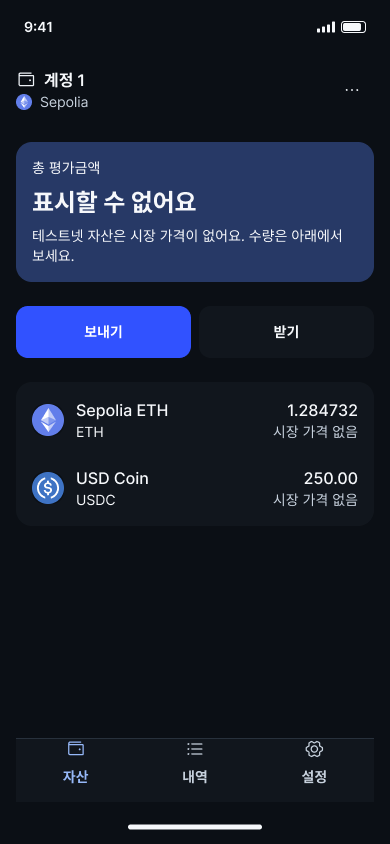
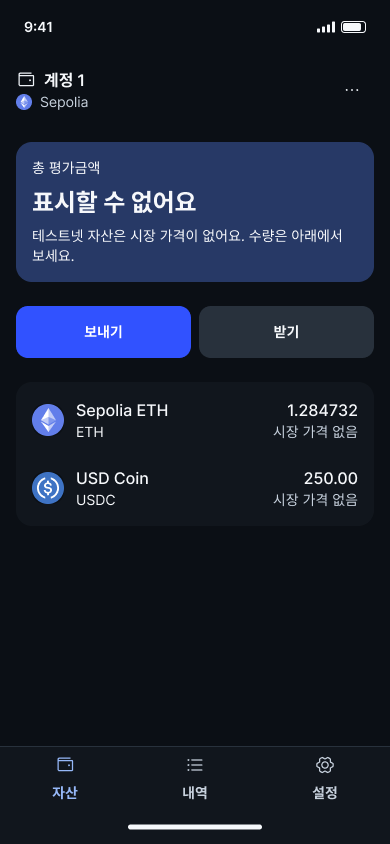
fix(mobile): finish-review fixes — dark secondary, tab bar, settings switches, large text (#9)

diff --git a/apps/mobile/src/pages/settings/index.tsx b/apps/mobile/src/pages/settings/index.tsx
@@ -1,19 +1,26 @@
 import Constants from 'expo-constants'
+import { useState } from 'react'
 import { useTranslation } from 'react-i18next'
 import { account } from '@/entities/account/fixtures'
-import { Group, ListItem, Screen, Text } from '@/shared/ui'
+import { Group, ListItem, Screen, Switch, Text } from '@/shared/ui'
 
-/** R-S60 설정. Rows are static in C2a (disclosure rows open nothing yet). */
+/** R-S60 설정. Preferences are local state only (no persistence in C2a); the recovery phrase row opens nothing yet. */
 export function SettingsPage() {
   const { t } = useTranslation()
+  const [push, setPush] = useState(true)
+  const [zero, setZero] = useState(false)
+  const [device, setDevice] = useState(true)
+  const toggle = (title: string, value: boolean, set: (v: boolean) => void) => (
+    <ListItem title={title} trailing={{ kind: 'custom', node: <Switch label={title} value={value} onValueChange={set} /> }} />
+  )
   return (
     <Screen edges={['top']}>
       <Text variant="title" accessibilityRole="header">{t('settings.title')}</Text>
       <Group inset={false}>
-        <ListItem title={t('settings.phrase')} trailing={{ kind: 'disclosure', text: t('settings.on') }} />
-        <ListItem title={t('settings.push')} trailing={{ kind: 'disclosure', text: t('settings.on') }} />
-        <ListItem title={t('settings.zero')} trailing={{ kind: 'disclosure', text: t('settings.hidden') }} />
-        <ListItem title={t('settings.device')} trailing={{ kind: 'disclosure', text: t('settings.on') }} />
+        <ListItem title={t('settings.phrase')} trailing={{ kind: 'disclosure' }} />
+        {toggle(t('settings.push'), push, setPush)}
+        {toggle(t('settings.zero'), zero, setZero)}
+        {toggle(t('settings.device'), device, setDevice)}
         <ListItem title={t('settings.network')} trailing={{ kind: 'value', text: account.network }} />
         <ListItem title={t('settings.version')} trailing={{ kind: 'value', text: Constants.expoConfig?.version ?? '' }} />
       </Group>

diff --git a/apps/mobile/src/shared/ui/ProductNavigation.tsx b/apps/mobile/src/shared/ui/ProductNavigation.tsx
@@ -7,20 +7,20 @@ import { Text } from './Text'
 
 export type NavItem = { key: string; label: string; icon: IconName; active: boolean; onPress: () => void }
 
-/** C21 Product navigation (tab bar). White bar inset by screen padding, 1 px top border, icon over Label text; active = brand color. */
+/** C21 Product navigation (tab bar). Full screen width, bar fill extends into the bottom safe area, 1 px top border, space-2 top padding, icon over Label text; active = brand color. */
 export function ProductNavigation({ items }: { items: NavItem[] }) {
   const t = useTheme()
   const nav = t.component.productNavigation
   const insets = useSafeAreaInsets()
   return (
-    <View style={{ backgroundColor: t.semantic.surface.canvas, paddingHorizontal: t.semantic.layout.screen.padding, paddingBottom: Math.max(insets.bottom, t.primitive.space[2]) }}>
+    <View style={{ backgroundColor: nav.bg, paddingBottom: Math.max(insets.bottom, t.primitive.space[2]) }}>
       <View
         accessibilityRole="tablist"
         style={{
-          height: nav.height,
+          minHeight: nav.height,
           flexDirection: 'row',
           gap: t.semantic.layout.fieldGap,
-          backgroundColor: nav.bg,
+          paddingTop: t.primitive.space[2],
           borderTopWidth: nav.borderWidth,
           borderTopColor: nav.border,
         }}
@@ -37,7 +37,7 @@ export function ProductNavigation({ items }: { items: NavItem[] }) {
               style={{ flex: 1, minHeight: t.primitive.size.touch_min, alignItems: 'center', gap: t.semantic.layout.fieldGap, borderWidth: nav.itemBorderWidth }}
             >
               <Icon name={i.icon} size={t.component.icon.size.control} color={color} />
-              <Text variant="label" color={color} style={{ textAlign: 'center' }}>{i.label}</Text>
+              <Text variant="label" color={color} maxFontSizeMultiplier={1.3} style={{ textAlign: 'center' }}>{i.label}</Text>
             </Pressable>
           )
         })}

diff --git a/apps/mobile/src/shared/ui/Keypad.tsx b/apps/mobile/src/shared/ui/Keypad.tsx
@@ -27,15 +27,15 @@ function Key({ k, labels, onKey }: { k: KeypadKey; labels: Labels; onKey: (k: Ke
         accessibilityLabel={label}
         onPress={() => onKey(k)}
         {...handlers}
-        style={{ height: t.primitive.size.control_lg, alignItems: 'center', justifyContent: 'center' }}
+        style={{ minHeight: t.primitive.size.control_lg, alignItems: 'center', justifyContent: 'center' }}
       >
-        {k === 'backspace' ? <Icon name="backspace" size={t.component.icon.size.control} color={t.semantic.text.primary} /> : <Text variant="title">{k}</Text>}
+        {k === 'backspace' ? <Icon name="backspace" size={t.component.icon.size.control} color={t.semantic.text.primary} /> : <Text variant="title" maxFontSizeMultiplier={1.3}>{k}</Text>}
       </Pressable>
     </Animated.View>
   )
 }
 
-/** C34 Keypad. 3x4 text-only keys (1-9, ., 0, backspace), 52 pt rows. Every key is a button with a label; backspace is icon-only ("지우기"). Press feedback only: scale 0.97, 160 ms. */
+/** C34 Keypad. 3x4 text-only keys (1-9, ., 0, backspace), 52 pt min-height rows that grow with large text (digits capped at 1.3x). Every key is a button with a label; backspace is icon-only ("지우기"). Press feedback only: scale 0.97, 160 ms. */
 export function Keypad({ onKey, labels }: { onKey: (k: KeypadKey) => void; labels: Labels }) {
   const t = useTheme()
   return (

diff --git a/apps/mobile/src/shared/ui/Screen.tsx b/apps/mobile/src/shared/ui/Screen.tsx
@@ -12,10 +12,12 @@ type Props = {
   edges?: ('top' | 'bottom')[]
   /** `section` = layout.sectionGap.product (24, default). `group` = layout.groupGap (16), used by frame S10N. `row` = layout.rowGap (12), used by S40. */
   gap?: 'section' | 'group' | 'row'
+  /** Space between the header and the first block. `field` = 8 (default), `group` = 16 (frame S20B). */
+  topGap?: 'field' | 'group'
 }
 
 /** Safe-area screen with canvas background, scroll body and optional pinned footer. */
-export function Screen({ children, header, footer, edges = ['top', 'bottom'], gap = 'section' }: Props) {
+export function Screen({ children, header, footer, edges = ['top', 'bottom'], gap = 'section', topGap = 'field' }: Props) {
   const t = useTheme()
   const l = t.semantic.layout
   return (
@@ -24,7 +26,7 @@ export function Screen({ children, header, footer, edges = ['top', 'bottom'], ga
       <ScrollView
         contentContainerStyle={{
           paddingHorizontal: l.screen.padding,
-          paddingTop: t.primitive.space[2],
+          paddingTop: topGap === 'group' ? l.groupGap : t.primitive.space[2],
           paddingBottom: t.primitive.space[2],
           gap: gap === 'group' ? l.groupGap : gap === 'row' ? l.rowGap : l.sectionGap.product,
           flexGrow: 1,

diff --git a/apps/mobile/src/shared/ui/Switch.tsx b/apps/mobile/src/shared/ui/Switch.tsx
@@ -11,6 +11,7 @@ export function Switch({ value, onValueChange, label, disabled }: Props) {
   const h = t.primitive.size.avatar_sm
   const pad = t.primitive.space['0_5']
   const thumb = h - pad * 2
+  const slop = { top: (t.primitive.size.touch_min - h) / 2, bottom: (t.primitive.size.touch_min - h) / 2, left: 0, right: 0 }
   return (
     <Pressable
       accessibilityRole="switch"
@@ -18,7 +19,8 @@ export function Switch({ value, onValueChange, label, disabled }: Props) {
       accessibilityState={{ checked: value, disabled: !!disabled }}
       disabled={disabled}
       onPress={() => onValueChange(!value)}
-      style={{ minHeight: t.primitive.size.touch_min, minWidth: t.primitive.size.touch_min, justifyContent: 'center', opacity: disabled ? t.primitive.opacity[40] : t.primitive.opacity[100] }}
+      hitSlop={slop}
+      style={{ justifyContent: 'center', opacity: disabled ? t.primitive.opacity[40] : t.primitive.opacity[100] }}
     >
       <View
         style={{

diff --git a/apps/mobile/src/shared/ui/BottomSheet.tsx b/apps/mobile/src/shared/ui/BottomSheet.tsx
@@ -42,7 +42,7 @@ export function BottomSheet({ visible, onClose, title, children, actions }: Prop
     <Modal visible={mounted} transparent animationType="none" onRequestClose={onClose} statusBarTranslucent>
       <View style={{ flex: 1, justifyContent: 'flex-end' }}>
         <Animated.View style={[{ position: 'absolute', top: 0, left: 0, right: 0, bottom: 0 }, scrim]}>
-          <Pressable accessibilityLabel={ko.common.close} onPress={onClose} style={{ flex: 1, backgroundColor: t.semantic.surface.inverse, opacity: t.semantic.effect.modalScrimOpacity }} />
+          <Pressable accessibilityRole="button" accessibilityLabel={ko.common.close} onPress={onClose} style={{ flex: 1, backgroundColor: t.semantic.surface.inverse, opacity: t.semantic.effect.modalScrimOpacity }} />
         </Animated.View>
         <Animated.View
           accessibilityViewIsModal

diff --git a/apps/mobile/src/shared/ui/SummaryRow.tsx b/apps/mobile/src/shared/ui/SummaryRow.tsx
@@ -28,7 +28,7 @@ export function SummaryRow({ label, value, format = 'text', highlight, mono, edi
       accessibilityLabel={onEdit ? undefined : `${label}, ${value}`}
       style={{ flexDirection: 'row', alignItems: 'flex-start', gap: t.semantic.layout.rowGap, minHeight: t.primitive.size.touch_min, paddingVertical: t.primitive.space[3] }}
     >
-      <Text variant={total ? 'label' : 'body'} color={total ? t.semantic.text.primary : t.semantic.text.secondary} style={{ width: labelWidth }}>{label}</Text>
+      <Text variant={total ? 'label' : 'body'} color={total ? t.semantic.text.primary : t.semantic.text.secondary} style={{ minWidth: labelWidth }}>{label}</Text>
       <View style={{ flex: 1 }}>
         {format === 'address' ? (
           <AddressText address={value} highlight={highlight ?? []} markColor={t.semantic.status.warning.fg} />

diff --git a/apps/mobile/src/shared/ui/Text.tsx b/apps/mobile/src/shared/ui/Text.tsx
@@ -11,5 +11,5 @@ type Props = TextProps & { variant?: TextVariant; color?: string }
 
 export function Text({ variant = 'body', color, style, ...rest }: Props) {
   const t = useTheme()
-  return <RNText {...rest} style={[textStyle(variant === 'display' ? t.primitive.type.display.mobile : t.semantic.typography[variant]), { color: color ?? t.semantic.text.primary }, style]} />
+  return <RNText maxFontSizeMultiplier={variant === 'amountHero' ? 1.2 : 1.5} {...rest} style={[textStyle(variant === 'display' ? t.primitive.type.display.mobile : t.semantic.typography[variant]), { color: color ?? t.semantic.text.primary }, style]} />
 }

diff --git a/apps/mobile/src/pages/send/amount.tsx b/apps/mobile/src/pages/send/amount.tsx
@@ -23,6 +23,7 @@ export function SendAmountPage() {
   const gap = th.semantic.layout.fieldGap
   return (
     <Screen
+      topGap="group"
       header={<ScreenHeader backLabel={t('common.back')} onBack={() => router.back()} />}
       footer={<Button label={t('send.next')} disabled={isZeroAmount(amount)} onPress={() => router.push('/review')} />}
     >

diff --git a/work/redesign/finish-review.md b/work/redesign/finish-review.md
@@ -1,0 +1,34 @@
+disposition: fix
+
+Unread/unchecked: Figma node data, AGENTS.md beyond the injected contract, mobbin refs, direction contract and decision sketch (reviewed screenshots + code only). No large-text, Android dark, or Android sheet captures exist. Native build: no detector ran; floor check is the only slop gate.
+
+## persistence
+Pass for a code-led build (no comp round, no state.json required). All 27 required captures present (12 app + 12 figma + 3 android), valid, correct content, correct dimensions. Expo Go gear overlay ignored per brief, but it hides the top-right of every pushed/home frame (Figma home shows a "..." affordance there; app side unverifiable).
+
+## fidelity
+Critique reference is provocation-only, but app vs Figma frame comparison: faithful on start, home, home-new, send, send-amount, review, review-lookalike, review-sheet, receive, activity, settings, home-dark layout/spacing/type.
+- TYPE: Inter/Plex Mono as contracted; titles 24/32, amount hero 40/48; match.
+- MATERIAL: flat, borderless, one tinted C23 card; match. Input border on send is functional (contract rule 10).
+- GROUND: canvas #F6F8FB-like, matches Figma.
+- Adaptation: receive address wraps 2 lines (README-cited, acceptable). Version 0.0.0 vs 1.0.0 (config, acceptable).
+- Rules 3/4: full address, fee, network, account, "not a safety guarantee", lookalike chunks (color + underline + weight), sheet with Cancel as primary and "그래도 보내기" demoted, placeholder QR labelled. Good.
+
+## ceiling
+Reached for the chosen restrained direction. Unused: no haptics on keypad/confirm, no amount-digit transition; acceptable under "one authored moment" (press scale 0.97 + fold-in + sheet).
+
+## material_fixes
+1. Dark mode: secondary action fill (받기) is near-invisible against canvas (about 1.1:1); the control reads as a missing button. Raise the dark neutral secondary fill (home-dark).
+2. Dark mode captured on home only; send, send-amount, review, sheet, receive, activity, settings dark are unverified. Recapture them.
+3. Bottom tab bar (home, activity, settings): icons sit directly under the hairline with no top padding, and the bar is a square-cornered white slab inset 16 pt with canvas gutters. It reads as unfinished against an iOS tab bar. Add vertical padding (icon to hairline), or run edge to edge.
+4. Settings: rows showing 켜짐/숨김 with a chevron look like toggles but navigate. The Switch primitive exists in src/shared/ui/Switch.tsx. If these are binary preferences, use Switch; otherwise drop the on/off text. Fix the iOS convention mismatch.
+5. Dynamic Type / Android font scale never captured; fixed 52 pt keypad rows and fixed nav.height tab bar risk clipping at large sizes (Text.tsx sets no maxFontSizeMultiplier). Capture at AX sizes and font_scale 1.3.
+6. Home top-right: Figma "..." affordance absent or hidden under the Expo overlay; recapture with the overlay dismissed to confirm.
+7. BottomSheet scrim Pressable has a label but no accessibilityRole="button" (BottomSheet.tsx line 45).
+8. Review "확인 결과" notice tint is almost the canvas colour (low separation); verify the contrast of the blue text on that tint. Minor: back arrow glyph sits about 5 pt right of the title left edge; send-amount summary row to back button gap (8 pt) breaks the 16/24 rhythm.
+
+Verified in code: Reduce Motion handled in usePressScale, useFoldIn (starts at 1), BottomSheet (instant open/close). Labels present on IconButton, Button, Keypad (dot/delete named), tabs (role tab + selected state), SummaryRow edit, sheet (accessibilityViewIsModal, onRequestClose for Android Back). 44 pt targets enforced via hitSlop.
+
+## keep
+Back as bare 44 pt arrow, one question per screen, 24/32 titles, 40/48 amount hero, borderless flat rows, full address with chunk-marking, sheet with Cancel as the primary action.
+
+fix

diff --git a/outputs/vaultme-v2-migration.md b/outputs/vaultme-v2-migration.md
@@ -273,3 +273,12 @@ Figma `02 Semantic`(`VariableCollectionId:2:151`)의 `Dark` mode(`298:0`)를 읽
 - 소유자 승인: `component.button.size.lg.paddingX` `space.5`(20) → `space.4`(16), `component.receivePanel.radius` `radius.xl`(20) → `radius.lg`(16). Figma VariableID:2:253, VariableID:30:48 alias 변경, 경로·ID 유지. Library 게시 완료는 이 단계 이후 기록.
 
 - Figma에만 있던 C29–C33 Component Variable 24개를 portable JSON `component`에 추가했다 (`switch` 4, `segmented` 6, `listItem` 7, `bottomSheet` 1, `sensitiveReveal` 6). 모두 기존 Semantic/Primitive alias이며 raw 값은 없다. Primitive와 Semantic은 추가 없음 (`space/*`는 이미 JSON에 있음). 기존 값은 바꾸지 않았다. Figma 읽기 전용 비교: Figma 717 Variable, JSON-only는 Text Style/Effect Style 참조(typography, shadow) 80개뿐이다. `segmented.bg`(`action.secondary.bg.default`)는 앱의 기존 `surface.subtle`과 값이 달라 앱 코드는 바꾸지 않았다.
+
+## 2026-10-14 Dark Secondary fill과 Tab bar (finish-review 수정)
+
+- `semanticDark.action.secondary.bg.{default,hover,pressed}`: `neutral.900/800/700` → `neutral.800/700/600`. 이유: Dark canvas(`neutral.950`)와 default 면이 1.06:1이라 버튼이 보이지 않았다. 새 값은 canvas 대비 1.46 / 1.97 / 2.82:1이다. `action.secondary.fg`(`neutral.50`)와의 대비는 12.38 / 9.18 / 6.39:1로 모두 4.5:1 이상이다. Figma `02 Semantic` Dark mode(`298:0`)의 VariableID:2:186–188을 같은 alias로 바꿨다. 경로·ID 유지. `segmented.bg`와 Secondary Button이 이 변수를 alias하므로 Dark에서 함께 바뀐다.
+- Product navigation(`67:342`): 모든 variant에 `paddingTop` = `space/2`(8, 변수 binding)를 추가했다. 높이(`productNavigation/height` 64), 색, divider 토큰, 44 pt 대상은 그대로다. master ID는 유지했다. 앱 frame 5개는 Tab bar를 Body 밖으로 옮겨 화면 전체 너비(390)로 쓰고, Home indicator 영역 fill을 `productNavigation/bg`에 binding해 bar 색이 하단 safe area까지 이어진다.
+- 앱 `ProductNavigation`: 화면 전체 너비, 상단 padding `space[2]`, bar fill이 safe area까지 확장, `minHeight`, label `maxFontSizeMultiplier` 1.3.
+- Settings(R-S60): 거래 알림, 0원 거래 표시, 기기 보안 경고는 List item `Trailing=Switch` + C29 Switch(켜짐/꺼짐/켜짐). 복구 구문 보기는 값 없는 disclosure.
+- Library 게시는 이 변경 이후 별도로 기록한다.
+- Library 게시 완료 (2026-10-14). 변경 목록 13개: `02 Semantic` 3 변수(dark secondary), `03 Component` 4 변수(`button/secondary/bg/*`, `segmented/bg`), Component 11개(Product navigation, 그리고 Button / Secondary를 쓰거나 binding하는 Button / Secondary, Card / Group, Segmented control, Collection state, Receive address, Review footer, Transaction result, Backup status, Connected app row, Token allowance row). 그 외 항목은 없었다. 설명: "2026-10-14: dark Secondary fill neutral 800/700/600, full-width tab bar with top padding, settings switches."

diff --git a/work/redesign/compare/README.md b/work/redesign/compare/README.md
@@ -2,19 +2,23 @@
 
 Light mode, iPhone 18 Pro simulator (1206x2622 captures) vs Figma 390x844 frames. `<key>-app.png` / `<key>-figma.png`. Android: `<key>-android.png` (home, send-amount, review; emulator signaldock-api37, Expo Go via Metro 8082).
 
+Finish-review fixes (2026-10-14): dark Secondary fill neutral 800/700/600, full-width tab bar with 8 top padding, settings switches, send-amount gap 16, large-text caps. Expo Go tools button was turned off in the dev menu, so captures show the home "..." affordance.
+
+Extra captures: `<key>-dark-app.png` (home, send, send-amount, review, review-lookalike, review-sheet, receive, activity, settings) are the app in dark appearance; dark has no Figma pair except `home-dark` (compare structure against the light Figma frames). `<key>-xxxl-app.png` (send-amount, review, settings) are Dynamic Type extra-extra-extra-large.
+
 | Key | Figma node | Route | Remaining differences |
 | --- | --- | --- | --- |
 | start | 333:76 | `/` | Figma status bar and home indicator are device chrome, not drawn. Brand icon is 32 (token icon_xl), Figma 30. |
-| home | 333:113 | `/home?variant=restored` | Device chrome only. Expo Go floating gear button (dev tool) overlaps the top right in captures. |
+| home | 333:113 | `/home?variant=restored` | Device chrome only. Tab bar full width, 8 top padding, fill reaches the safe area (matches Figma). |
 | home-new | 333:351 | `/home` | Same as home. |
 | send | 334:316 | `/send` | Device chrome. Placeholder text is a real TextInput placeholder (same look). |
-| send-amount | 334:385 | `/send/amount?to=<address>` | Device chrome. Fold-in of the summary row is motion, not visible in a still. |
+| send-amount | 334:385 | `/send/amount?to=<address>` | Back row to summary gap 16. Device chrome. Fold-in of the summary row is motion, not visible in a still. |
 | review | 336:390 | `/review` | Device chrome. |
 | review-lookalike | 336:467 | `/review?risk=1` | Device chrome. Marked chunks use warning color + underline, Medium weight (Figma regular weight). |
 | review-sheet | 336:552 | `/review?risk=1&sheet=1` | Grabber height 4 (no 5 token). Sheet content is from the existing BottomSheet. |
 | receive | 336:10956 | `/receive?backedUp=1` | Address wraps to 2 lines; Figma frame clips it. Device chrome. |
 | activity | 336:11355 | `/activity` | Device chrome. |
-| settings | 336:11488 | `/settings` | Version shows app config 0.0.0, Figma 1.0.0. |
+| settings | 336:11488 | `/settings` | Version shows app config 0.0.0, Figma 1.0.0. Three List items use C29 Switch (on/off/on, local state). |
 | home-dark | 336:11570 | `/home?variant=restored`, appearance dark | Device chrome. |
 
 Android: home, send-amount, review render the same layout as iOS. Fonts and safe areas follow the platform.
